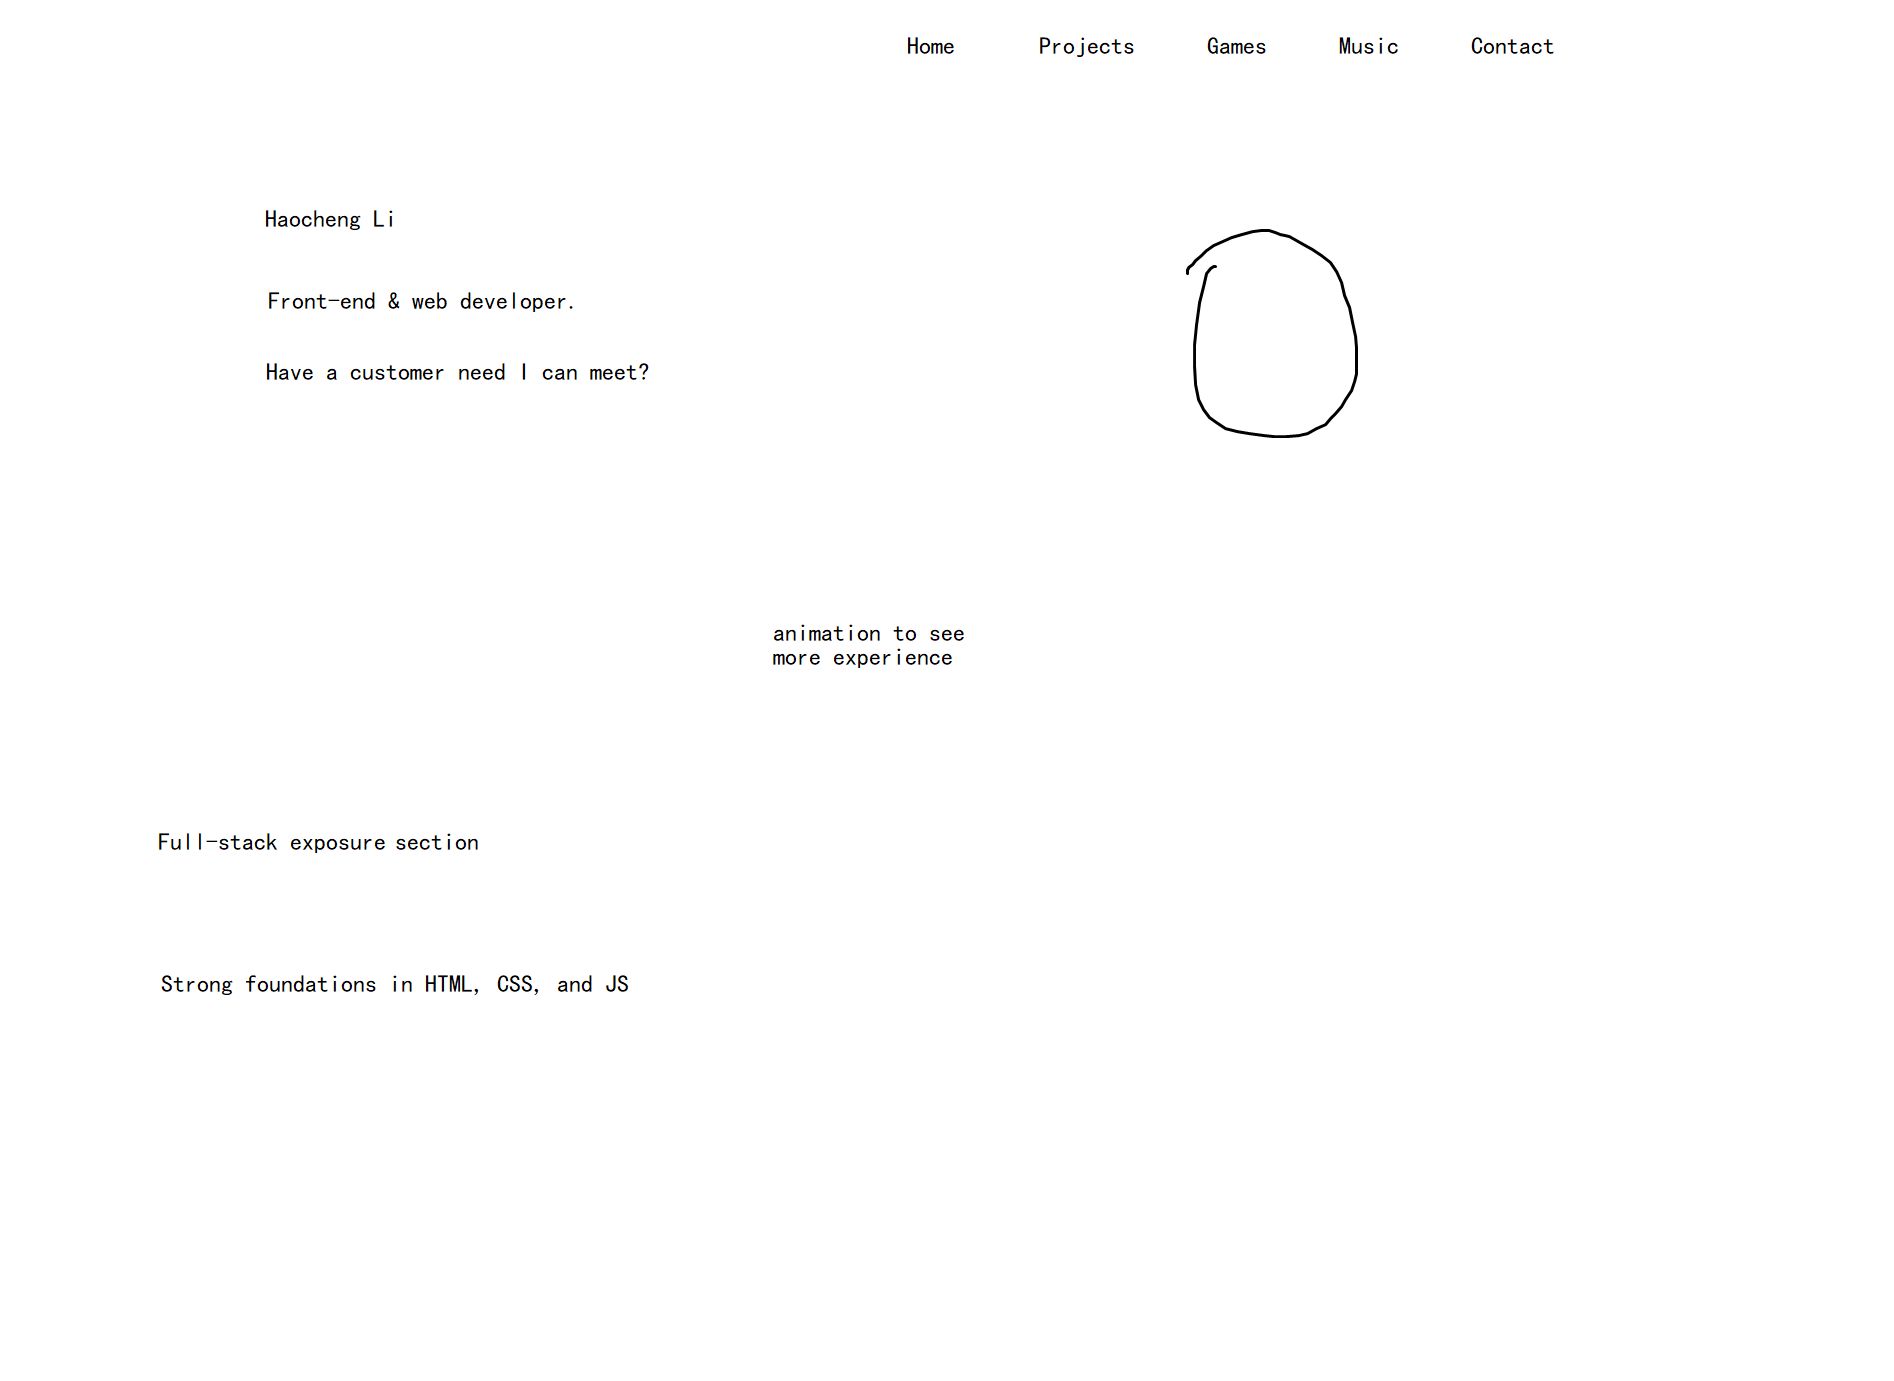
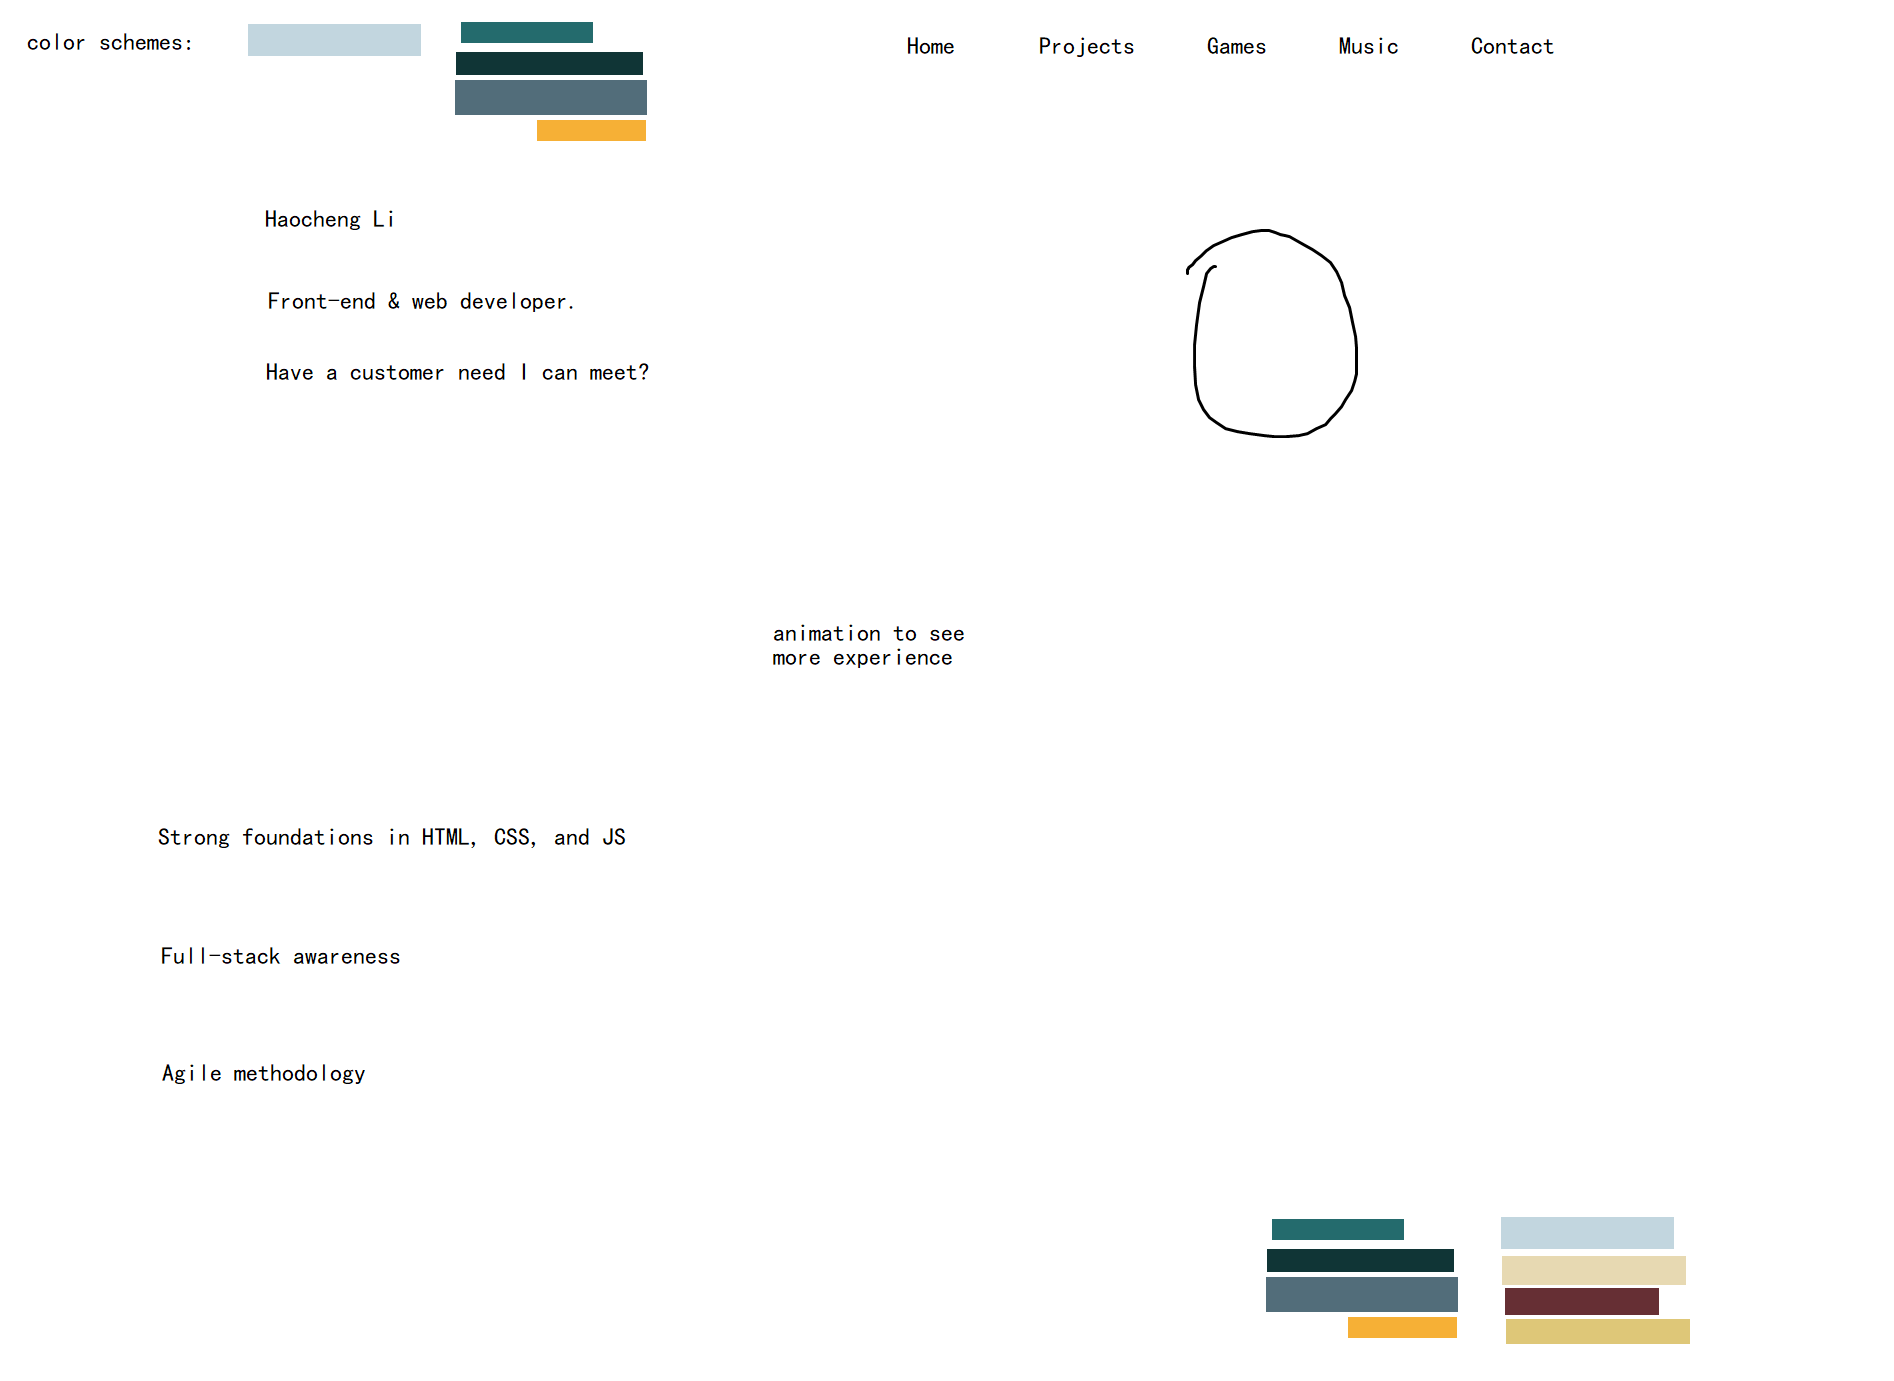
added some navbar styling and homepage positioning

diff --git a/src/css/App.css b/src/css/App.css
@@ -1,38 +1,78 @@
-.App {
+:root {
+  --basically-white: rgb(250,250,250);
+  --light-gray: rgb(230,230,230);
+  --light-orange: rgb(242, 179, 65);
+  --dark: rgb(50, 51, 54);
+  --dark-hover: rgb(114, 114, 143);
+  --light-blue: rgb(234,244,243);
+  --dark-cyan: rgb(52, 107, 109);
+}
+
+body {
+  background-color: var(--basically-white);
+}
+
+.logo {
+  position: absolute;
+  width: 120px;
+  left: 50px;
+  top: 9px;
+}
+
+.navbar-container {
+  padding-left: 50vw;
+  display: flex;
+  width: 50vw;
+  padding-top: 12px;
+}
+
+.nav-link {
+  width: 100%;
+  height: 22px;
+  color: var(--dark);
+  padding-left: 1vw;
+  padding-right: 1vw;
+  text-decoration: none;
+  border-left: 1px solid var(--light-gray);
   text-align: center;
 }
-
-.App-logo {
-  height: 40vmin;
-  pointer-events: none;
+.nav-link:hover {
+  color: var(--dark-hover);
+}
+.nav-link-active {
+  color: var(--light-orange);
+  text-decoration: underline;
 }
 
-@media (prefers-reduced-motion: no-preference) {
-  .App-logo {
-    animation: App-logo-spin infinite 20s linear;
-  }
+.homepage-section-1 {
+  height: 500px;
+  width: 100%;
 }
 
-.App-header {
-  background-color: #282c34;
-  min-height: 100vh;
-  display: flex;
-  flex-direction: column;
-  align-items: center;
-  justify-content: center;
-  font-size: calc(10px + 2vmin);
-  color: white;
+.homepage-main-intro-container {
+  position: relative;
+  /* background-color:rgb(52, 107, 109); */
+  padding-top: 100px;
+  margin-left: 100px;
+  width: 400px;
+  height: 300px;
 }
 
-.App-link {
-  color: #61dafb;
+.homepage-name {
+  color: var(--dark);
 }
+.homepage-title {
+  font-weight: normal;
+  color: var(--dark);
 
-@keyframes App-logo-spin {
-  from {
-    transform: rotate(0deg);
-  }
-  to {
-    transform: rotate(360deg);
-  }
+}
+.homepage-question {
+  color: var(--dark-cyan);
+
+} 
+
+.scroll-down-suggestion {
+  position: relative;
+  width: 100%;
+  text-align: center;
 }

diff --git a/src/components/HomePage.js b/src/components/HomePage.js
@@ -1,8 +1,35 @@
+
 const HomePage = () => {
     return ( 
         <div>
-            <h1>Haocheng Li</h1>
-            <p></p>
+            <div className="homepage-section-1">
+                <div className="homepage-main-intro-container">
+                    <h2 className="homepage-name">Haocheng Li</h2>
+                    <h3 className="homepage-title">Front-end & web developer</h3>
+                    <h4 className="homepage-question">Have a business need I can meet?</h4>
+                </div>
+                <div className="scroll-down-suggestion">Scroll to see my experiences</div>
+
+            </div>
+            
+            <div className="homepage-section-2">
+            <h3>Solid foundation in HTML, CSS, and Javascript</h3>
+            <p>
+            As a developer who strives to be competent and versatile in web development, 
+            I've spent much time learning the fundamentals of core web technology: HTML, CSS, 
+            Javascript, the DOM, HTTP, and 
+            </p>
+            </div>
+
+            <div className="homepage-section-3">
+            <h3>Full-stack awareness & exposure</h3>
+            </div>
+
+            <div className="homepage-section-4">
+            <h3>Agile methodology</h3>
+            <h3>Full-stack awareness & exposure</h3>
+            </div>
+            
         </div>
     );
 }

diff --git a/src/components/NavBar.js b/src/components/NavBar.js
@@ -1,11 +1,18 @@
-import { Link } from "react-router-dom";
+import { Link, useLocation } from "react-router-dom";
+
+const LinkWrapper = ({path, name}) => {
+    const currentPath = useLocation().pathname;
+    const componentClassName = "nav-link" + (currentPath === path ? " nav-link-active" : "");
+    return <Link to={path} className={componentClassName}>{name}</Link>
+}
 
 const NavBar = () => {
     return ( 
-        <div>
-            <Link to="/">Home</Link>
-            <Link to="games">Games</Link>
-            <Link to="music">Music</Link>
+        <div className="navbar-container">
+            <LinkWrapper path="/" name="Home" />
+            <LinkWrapper path="/projects" name="Projects" />
+            <LinkWrapper path="/games" name="Games" />
+            <LinkWrapper path="/music" name="Music" />
         </div>
     );
 }

diff --git a/src/components/App.js b/src/components/App.js
@@ -4,17 +4,25 @@ import NavBar from './NavBar';
 import HomePage from './HomePage';
 import GamesPage from './GamesPage';
 import MusicPage from './MusicPage';
+import ProjectsPage from './ProjectsPage';
+import logo from "../image/logo.png"
+
 
 function App() {
   return (
     <Router>
       <div className="App">
+        <img className="logo" src={logo}/>
         <NavBar />
 
         <Switch>
 
           <Route exact path="/">
             <HomePage />
+          </Route>
+
+          <Route exact path="/projects">
+            <ProjectsPage />
           </Route>
 
           <Route exact path="/games">

diff --git a/src/components/ProjectsPage.js b/src/components/ProjectsPage.js
@@ -1,0 +1,9 @@
+const ProjectsPage = () => {
+    return ( 
+        <div>
+            <h1>My projects</h1>
+        </div>
+    );
+}
+ 
+export default ProjectsPage;
